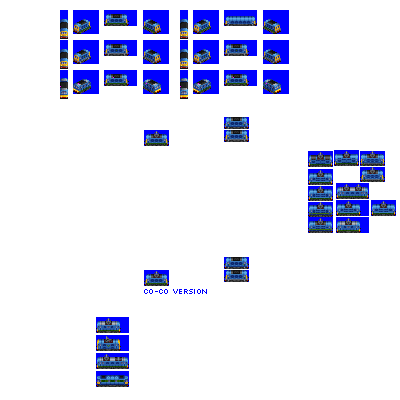
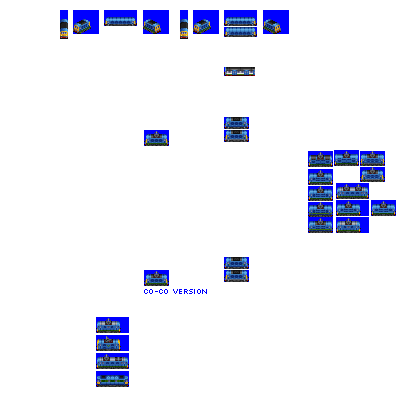
Change: WIP on low-height metro locomotives

Changed region(s): [[0.45, 0.03, 0.72, 0.27], [0.15, 0.03, 0.42, 0.27]]

diff --git a/src/rosters/pony.py b/src/rosters/pony.py
@@ -184,9 +184,9 @@ engine_module_names = [
     #"wandle", # unfinished, nerfed
     "tideway",
     #"bankside", # unfinished, nerfed
-    #"cringle", # unfinished, nerfed
-    #"debden", # unfinished, nerfed
-    #"mulberry", # unfinished, nerfed
+    "debden", # unfinished, nerfed
+    "cringle", # unfinished, nerfed
+    "mulberry", # unfinished, nerfed
     #"walbrook", # unfinished, nerfed
     #"borax", # unfinished, nerfed
     #"angerstein", # unfinished, nerfed

diff --git a/src/vehicles/pony/cringle.py b/src/vehicles/pony/cringle.py
@@ -13,7 +13,7 @@ def main(roster_id, **kwargs):
             "METRO": 1050,
         },
         random_reverse=True,
-        gen=1,
+        gen=2,
         intro_year_offset=3,  # introduce later than gen epoch by design
         fixed_run_cost_points=120,  # substantial cost bonus for balance against same-era steam engines
         extended_vehicle_life=True,

diff --git a/src/vehicles/pony/debden.py b/src/vehicles/pony/debden.py
@@ -13,7 +13,7 @@ def main(roster_id, **kwargs):
             "METRO": 1050,
         },
         random_reverse=True,
-        gen=2,
+        gen=1,
         intro_year_offset=3,  # introduce later than gen epoch by design
         fixed_run_cost_points=120,  # substantial cost bonus for balance against same-era steam engines
         extended_vehicle_life=True,
